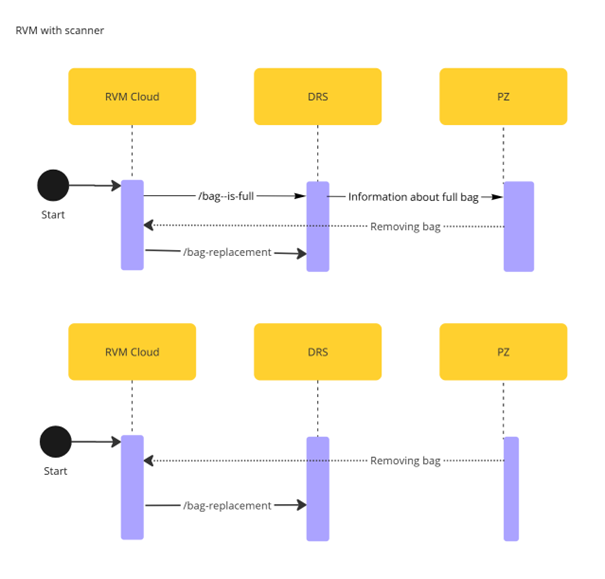
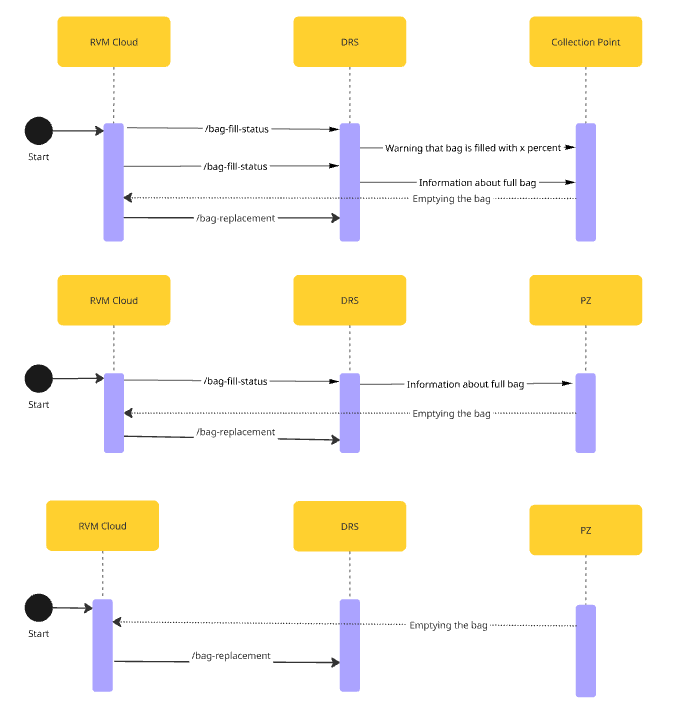
Modified 13 files

diff --git a/docs/Bag Processing/RVM-Without-Scanner.md b/docs/Bag Processing/RVM-Without-Scanner.md
@@ -14,23 +14,40 @@ For **RVMs that do not have an internal scanner**, the process of scanning the s
 
 ## Process Flow
 
-### Case 1 – Full Bag Notification Present
+We do expect to follow one of available cases, one of th
 
-1. **Start:** The RVM detects that the bag is full.
-2. **API Endpoint:** RVM Cloud sends a notification to DRS using `POST /bag-is-full`
-3. **Propagation:** DRS informs Collection Point about the full bag.
-4. **Bag Replacement:** Once the bag is emptied, **RVM Cloud** notifies **DRS** via `POST /bag-replacement`
-5. **Seal Request:** DRS requests a seal from PZ.
-6. **Seal Confirmation:** Collection Point confirms **DRS** sealing `POST /bag-seal`
-7. **Machine Unblock:** DRS sends a command to RVM Cloud to unblock the machine `POST /machine/{id}/unblock`
+### Case 1 – Bag Fill Status Notification Present
 
-### Case 2 – Proactive bag replacement (Bag is not full yet)
+This flow applies to RVMs that support **bag fill level detection** and notify DRS when the bag is filling up or full.
 
-1. **Start:** Bag replacement is performed manually.
-2. **Bag Replacement:** RVM Cloud informs DRS via `POST /bag-replacement`
-3. **Seal Request:** DRS notifies PZ that a seal is needed.
-4. **Seal Confirmation:** PZ sends confirmation of sealing `POST /bag-seal`
-5. **Machine Unblock:** DRS unblocks the RVM -  `POST /machine/{id}/unblock`
+1. **Start:** The RVM detects the bag has reached a certain fill threshold.
+2. **Bag Fill Notification:** RVM Cloud sends fill status to DRS via `POST /bag-fill-status`. 
+3. **Notification Propagation:** DRS notifies the Collection Point Warning about filled bag.
+4. **Full Bag Notification:** When the bag is full, RVM Cloud sends a another `POST /bag-fill-status` request - now RVM should lock itself until seal is applied.
+5. **Notification Propagation:** DRS notifies the Collection Point about the full bag.
+6. **Bag Replacement:** After the bag is emptied, RVM Cloud sends `POST /bag-replacement` to DRS.
+7. **Seal Request:** DRS requests the Collection Point to confirm sealing.
+8. **Seal Confirmation:** Collection Point sends confirmation to DRS via `POST /bag-seal`.
+9. **Machine Unblock:** Once sealing is confirmed, DRS sends `POST /machine/{id}/unblock` to RVM Cloud.
+
+> In case single transaction have filled from normal status to full, warning should not be sent. Only single call that informs that bag is full.
+
+---
+
+### Case 2 – No Bag Fill Status Notification
+
+This flow applies when:
+
+- The RVM **does not support bag fill status detection**, **or**
+- The bag was already replaced **before** any notification could be sent
+
+1. **Start:** The bag is replaced manually (proactively or without system detection).
+2. **Bag Replacement:** RVM Cloud informs DRS via `POST /bag-replacement`. At this point RVM should be blocked until Seal is applied
+3. **Seal Request:** DRS notifies the Collection Point that sealing is required.
+4. **Seal Confirmation:** Collection Point confirms sealing via `POST /bag-seal`.
+5. **Machine Unblock:** DRS sends a command to RVM Cloud to unblock the machine using `POST /machine/{id}/unblock`.
+
+
 
 ## API Endpoints
 
@@ -60,16 +77,16 @@ For full overwiev of this endpoint please visit: [POST - /bag-seal](../../drs-op
 
 ### POST /bag-is-full
 
-Informs DRS that the RVM's bag is full.
+Informs DRS about the RVM's bag fill level. 
 
-For full overwiev of this endpoint please visit: [POST - /bag-is-full](../../drs-openapi.yaml/paths/\~1bag-is-full/post)
+For full overwiev of this endpoint please visit: [POST - /bag-fill-status](../../drs-openapi.yaml/paths/~1bag-fill-status/post)
 
 <details>
 
 <summary>Request Body</summary>
 
 ```yaml jsonSchema
-  $ref: '../../drs-openapi.yaml#/components/schemas/BagFull'
+  $ref: '../../drs-openapi.yaml#/components/schemas/BagFillStatus'
 ```
 
 </details>

diff --git a/docs/Bag Processing/RVM-With-Scanner.md b/docs/Bag Processing/RVM-With-Scanner.md
@@ -17,37 +17,50 @@ The process can be triggered either by:
 
 ## Process Flow
 
-### Case 1 – Full Bag Notification Present
-
-1. **Start:** The RVM detects a full bag.
-2. **API Endpoint:** RVM Cloud informs DRS `POST /bag-is-full`
-3. **Propagation:** DRS informs PZ about the full bag.
-4. **Bag Replacement:** Once the bag is replaced, RVM Cloud notifies DRS `POST /bag-replacement`
-
-### Case 2 – No Initial Bag Full Notification
-
-1. **Start:** A manual bag replacement is initiated.
-2. **Bag Replacement:** RVM Cloud notifies DRS `POST /bag-replacement`
 
 > **Note:** The internall scanner within **RVM** handles the seal scanning and transmits this data automatically during the process.
+
+### Case 1 & 2 – Full Bag Notification Present
+
+These flows apply when the **RVM supports bag fill level detection**:
+
+1. **Start:** The RVM sends `POST /bag-fill-status` to DRS when the bag reaches a defined fill level.
+2. **Notification Propagation:** DRS notifies the Collection Point Warning about filled bag.
+3. **Full Bag Notification:** The RVM Cloud sends another `POST /bag-fill-status` when the bag is full.
+4. **Propagation:** DRS forwards full bag information to the Collection Point or PZ.
+5. **Bag Replacement:** After bag replacement, RVM Cloud sends `POST /bag-replacement`.
+6. **Seal Handling:** The RVM's internal scanner automatically reads the seal and includes this in the bag replacement event.
+
+
+### Case 3 – No Bag Fill Status Notification
+
+This case covers scenarios where:
+
+- The **RVM does not support bag fill status**, or
+- **Bag replacement occurs before any status notification is triggered**
+
+1. **Start:** Bag is manually replaced.
+2. **Bag Replacement:** RVM Cloud sends `POST /bag-replacement` to DRS.
+3. **Seal Handling:** The internal scanner scans the seal and includes it in the replacement message automatically.
+
 
 <!--
 type: tab
 title: DRS
 -->
 
-### POST /bag-is-full
+### POST /bag-fill-status
 
-Informs DRS that the RVM's bag is full.
+Informs DRS about the RVM's bag fill level. 
 
-For full overwiev of this endpoint please visit: [POST - /bag-is-full](../../drs-openapi.yaml/paths/\~1bag-is-full/post)
+For full overwiev of this endpoint please visit: [POST - /bag-fill-status](../../drs-openapi.yaml/paths/~1bag-fill-status/post)
 
 <details>
 
 <summary>Request Body</summary>
 
 ```yaml jsonSchema
-  $ref: '../../drs-openapi.yaml#/components/schemas/BagFull'
+  $ref: '../../drs-openapi.yaml#/components/schemas/BagFillStatus'
 ```
 
 </details>

diff --git a/docs/RVM Interaction/Update-Machine-In-DRS.md b/docs/RVM Interaction/Update-Machine-In-DRS.md
@@ -1,0 +1,49 @@
+---
+stoplight-id: foryzcd3xzn6k
+---
+
+# Update Machine In DRS
+
+![RVMConfigUpdate.png](../../assets/images/MachineUpdateInDRS.png)
+
+# RVM Configuration Update
+
+## Overview
+This process allows **RVM providers** to update selected configuration parameters of the **RVM** directly in the **DRS** system.
+
+## Process Flow
+1. **Start:** The update process is initiated from the **RVM Cloud**.
+2. **API Endpoint:** Configuration data is sent to the **DRS** system using the following endpoint `POST /machine/{id}/update`
+3. **Response:** After the update is processed, **DRS** responds with a **confirmation**.
+
+## Possible Updates by RVM Provider
+
+The following parameters can be updated in the DRS system by the RVM provider:
+
+1. **RVM Location**  
+   Update the location where the RVM is installed.
+
+2. **Bin Configuration**  
+   Define or modify the number of bins in the RVM, their types (e.g., plastic, cans) and the target destination assigned to each bin.
+
+
+<!--
+type: tab
+title: DRS
+-->
+
+Representation of API endpoint exposed by **DRS** for configuration update.
+
+### POST /machine/{id}/update
+
+For a full overview of this endpoint, please visit: [POST - /machine/{id}/update](../../drs-openapi.yaml/paths/~1machine~1{id}~1update/post)
+
+<details>
+<summary>Request Body</summary>
+
+```yaml jsonSchema
+  $ref: '../../drs-openapi.yaml#/components/schemas/MachineUpdate'
+```
+
+
+<!-- type: tab-end -->

diff --git a/docs/RVM Interaction/Adding-New-RVM.md b/docs/RVM Interaction/Adding-New-RVM.md
@@ -1,12 +1,11 @@
 ![RVMRegistration.png](../../assets/images/RVMRegistration.png)
 
-# Machine Registration
+# Add/Update Machine 
 
 ## Overview
 
-The **Machine Registration** process is a performed by **DRS** through their mobile application. It ensures that a new machine is properly registered in **RVM Cloud**.
+The **Add or update Machine** process is a performed by **DRS** through their mobile application. It ensures that a new machine is properly registered in **RVM Cloud**.
 
-Operation is done once per RVM machine. If machine change operator, will be replaced in Collection Point - machine needs to be deleted and then new one added.
 
 ## Process Flow
 

diff --git a/docs/RVM Interaction/Delete-Machine-In-DRS.md b/docs/RVM Interaction/Delete-Machine-In-DRS.md
@@ -1,0 +1,7 @@
+---
+stoplight-id: mzv1veqdk9ih2
+---
+
+# Delete-Machine-In-DRS
+
+The beginning of an awesome article...

diff --git a/docs/RVM Interaction/Removing-RVM.md b/docs/RVM Interaction/Removing-RVM.md
@@ -1,4 +1,3 @@
----
 stoplight-id: w2tx8sc7ikulc
 ---
 
